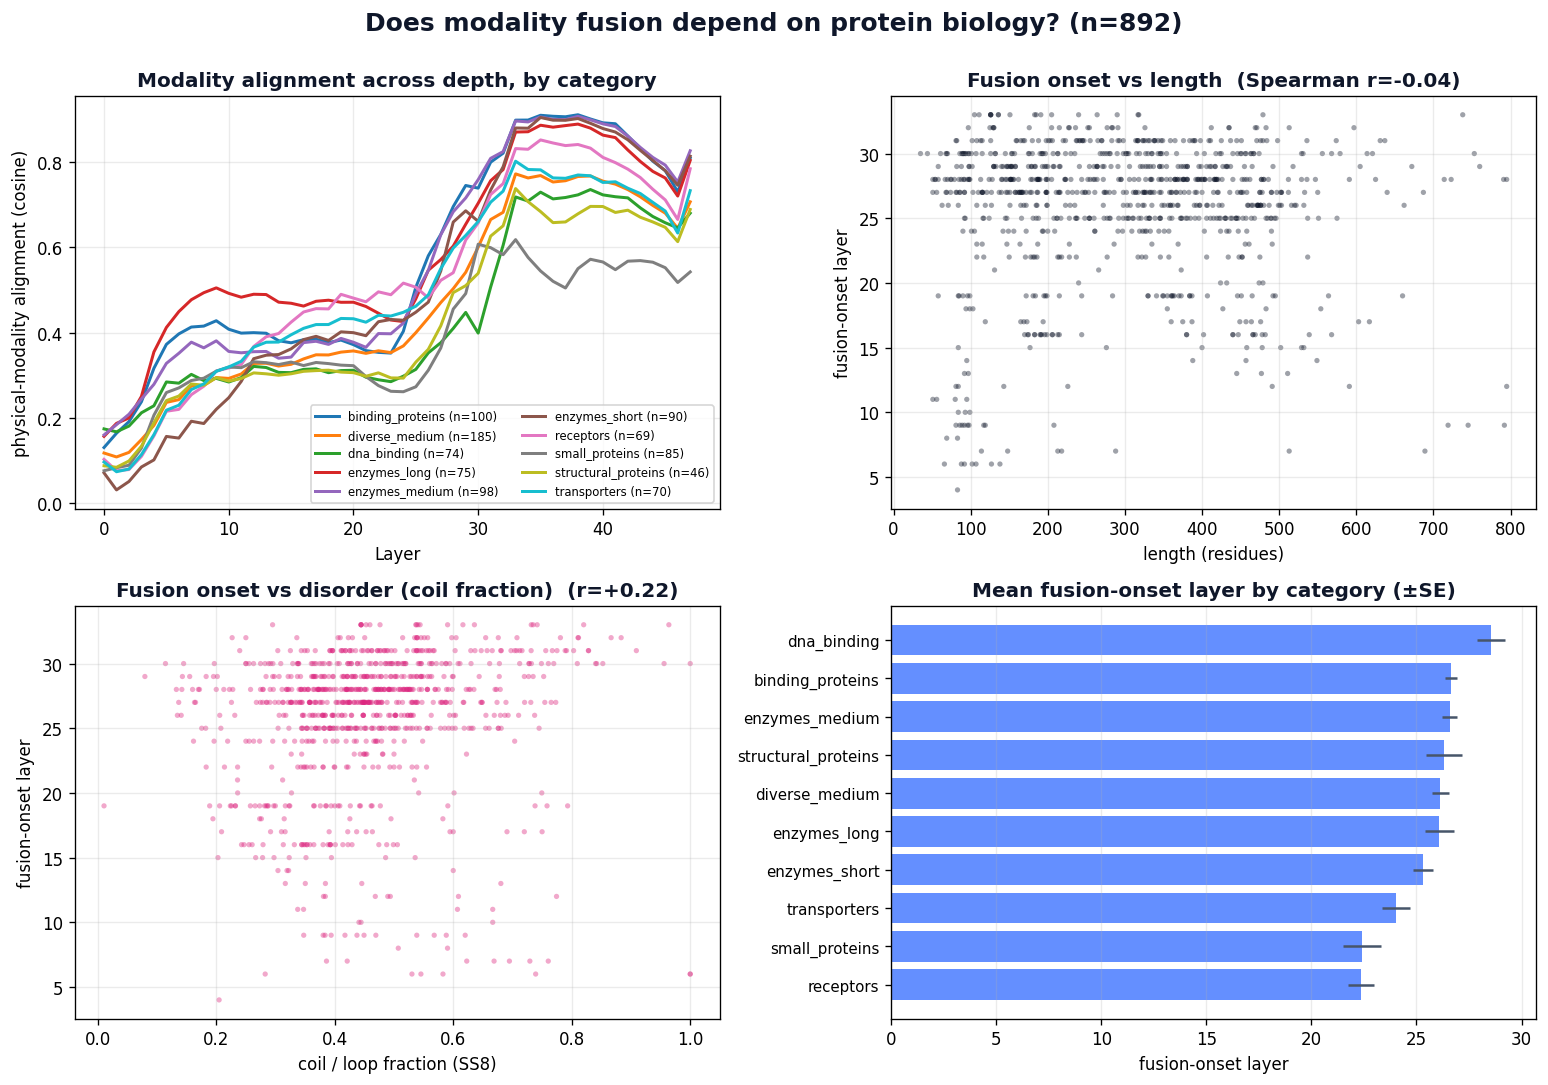
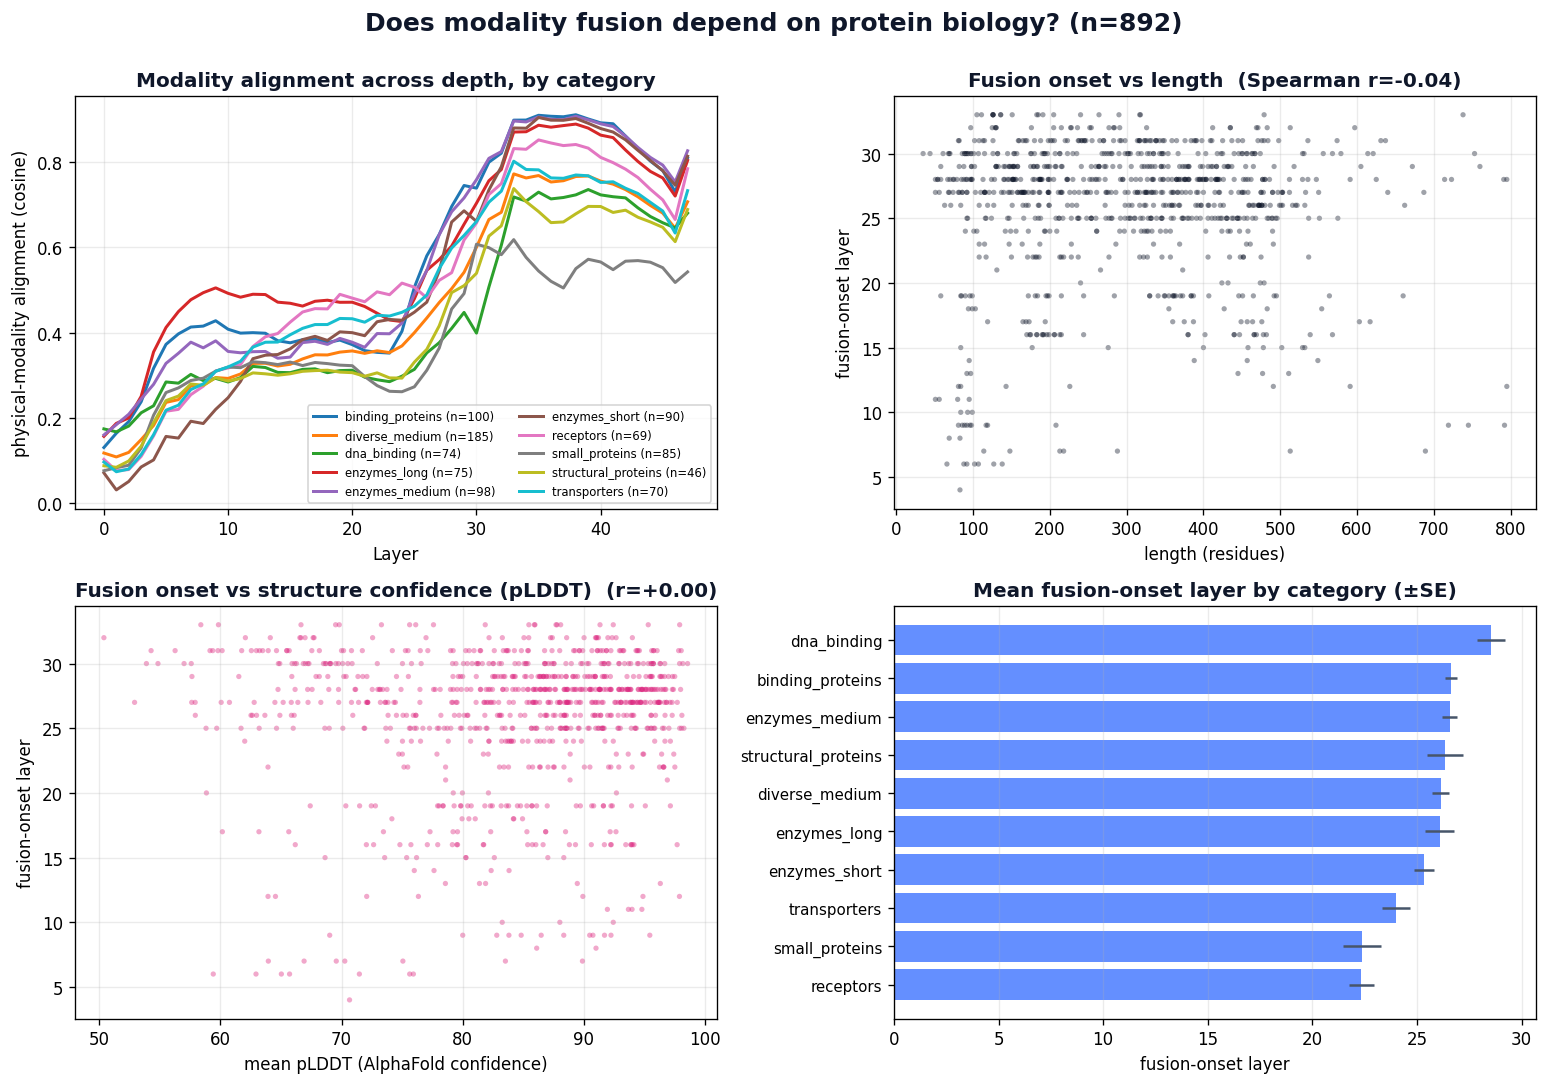
Biology breakdown: add pLDDT control (disorder effect is content, not confidence)
Add mean pLDDT (AlphaFold confidence) to the per-protein fusion-onset analysis.
Result: fusion-onset is uncorrelated with pLDDT (Spearman r=+0.003, p=0.93) while
the coil-fraction correlation stays strong (r=+0.22). So the disorder->later-fusion
effect reflects genuine secondary-structure content, not AlphaFold's prediction
uncertainty. Figure panel C now shows onset vs pLDDT; coil/helix correlations remain
in the JSON. Paper R7 + limitations updated accordingly.

diff --git a/scripts/biology_breakdown.py b/scripts/biology_breakdown.py
@@ -46,12 +46,30 @@ OUT_FIG = ROOT / "figures" / "scaled" / "metrics" / "biology_breakdown.png"
 PHYSICAL = ["sequence", "structure", "ss8", "sasa"]
 
 
+STRUCT_DIR = ROOT / "data" / "scaled" / "structures"
+
+
 def ss_fracs(ss: str) -> tuple[float, float, float]:
     n = max(1, len(ss))
     helix = sum(ss.count(c) for c in "HGI") / n
     strand = sum(ss.count(c) for c in "EB") / n
     coil = sum(ss.count(c) for c in "CTSP") / n
     return helix, strand, coil
+
+
+def mean_plddt(acc: str) -> float:
+    """Mean per-residue AlphaFold confidence (pLDDT) from the CA B-factor column."""
+    p = STRUCT_DIR / f"{acc}.pdb"
+    if not p.exists():
+        return float("nan")
+    vals = []
+    for line in p.read_text().splitlines():
+        if line.startswith("ATOM") and line[12:16].strip() == "CA":
+            try:
+                vals.append(float(line[60:66]))
+            except ValueError:
+                pass
+    return float(np.mean(vals)) if vals else float("nan")
 
 
 def main() -> None:
@@ -97,13 +115,17 @@ def main() -> None:
     length = np.array([meta[a]["length"] for a in accs], dtype=float)
     cats = [meta[a]["category"] for a in accs]
     helix, strand, coil = np.array([ss_fracs(anno[a]["ss8"]) for a in accs]).T
+    plddt = np.array([mean_plddt(a) for a in accs])  # AFDB structure confidence
 
     def corr(x, name):
-        r, p = spearmanr(onset, x)
-        return {"vs": name, "spearman_r": float(r), "p_value": float(p)}
+        ok = np.isfinite(x)
+        r, p = spearmanr(onset[ok], x[ok])
+        return {"vs": name, "spearman_r": float(r), "p_value": float(p),
+                "n": int(ok.sum())}
 
     correlations = [corr(length, "length"), corr(coil, "coil_fraction"),
-                    corr(helix, "helix_fraction"), corr(strand, "strand_fraction")]
+                    corr(helix, "helix_fraction"), corr(strand, "strand_fraction"),
+                    corr(plddt, "mean_plddt")]
     print("\nfusion-onset Spearman correlations:")
     for c in correlations:
         print(f"  vs {c['vs']:<16} r={c['spearman_r']:+.3f}  p={c['p_value']:.1e}")
@@ -153,13 +175,14 @@ def main() -> None:
     axB.set_xlabel("length (residues)"); axB.set_ylabel("fusion-onset layer")
     axB.grid(True, alpha=0.25)
 
-    # C: onset vs coil (disorder proxy)
+    # C: onset vs pLDDT (structure confidence) — coil & helix correlations are in the JSON
     axC = axes[1, 0]
-    rC = correlations[1]["spearman_r"]
-    axC.scatter(coil, onset, s=10, alpha=0.4, color="#DC267F", edgecolors="none")
-    axC.set_title(f"Fusion onset vs disorder (coil fraction)  (r={rC:+.2f})",
+    rP = correlations[4]["spearman_r"]
+    okp = np.isfinite(plddt)
+    axC.scatter(plddt[okp], onset[okp], s=10, alpha=0.4, color="#DC267F", edgecolors="none")
+    axC.set_title(f"Fusion onset vs structure confidence (pLDDT)  (r={rP:+.2f})",
                   fontsize=12, fontweight="bold", color=INK)
-    axC.set_xlabel("coil / loop fraction (SS8)"); axC.set_ylabel("fusion-onset layer")
+    axC.set_xlabel("mean pLDDT (AlphaFold confidence)"); axC.set_ylabel("fusion-onset layer")
     axC.grid(True, alpha=0.25)
 
     # D: onset by category (sorted)